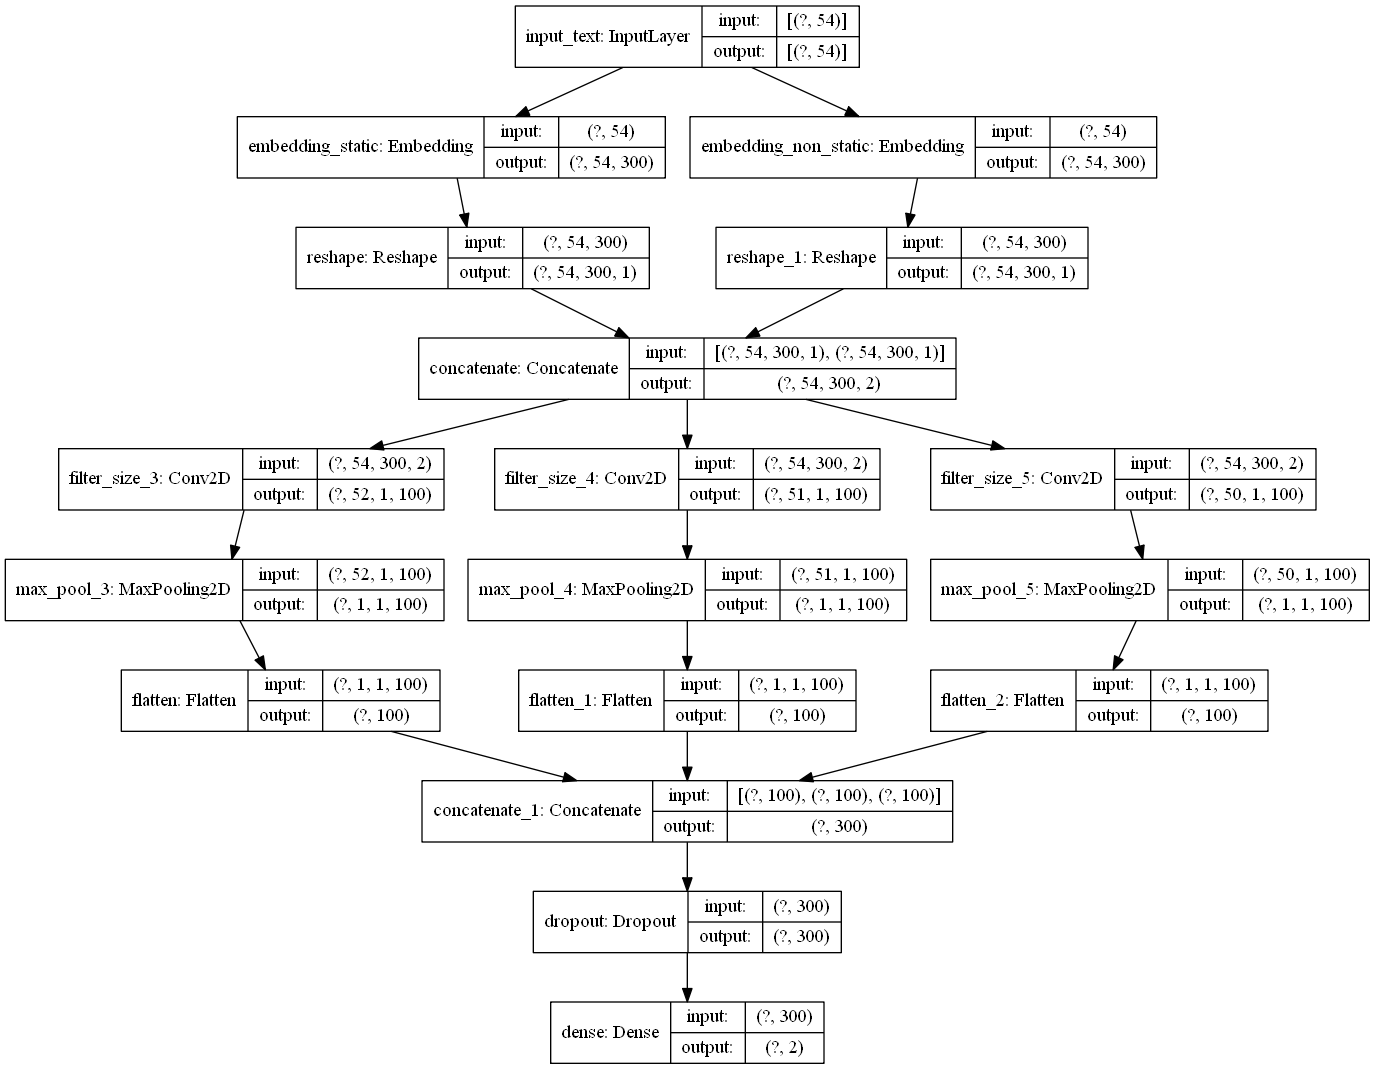
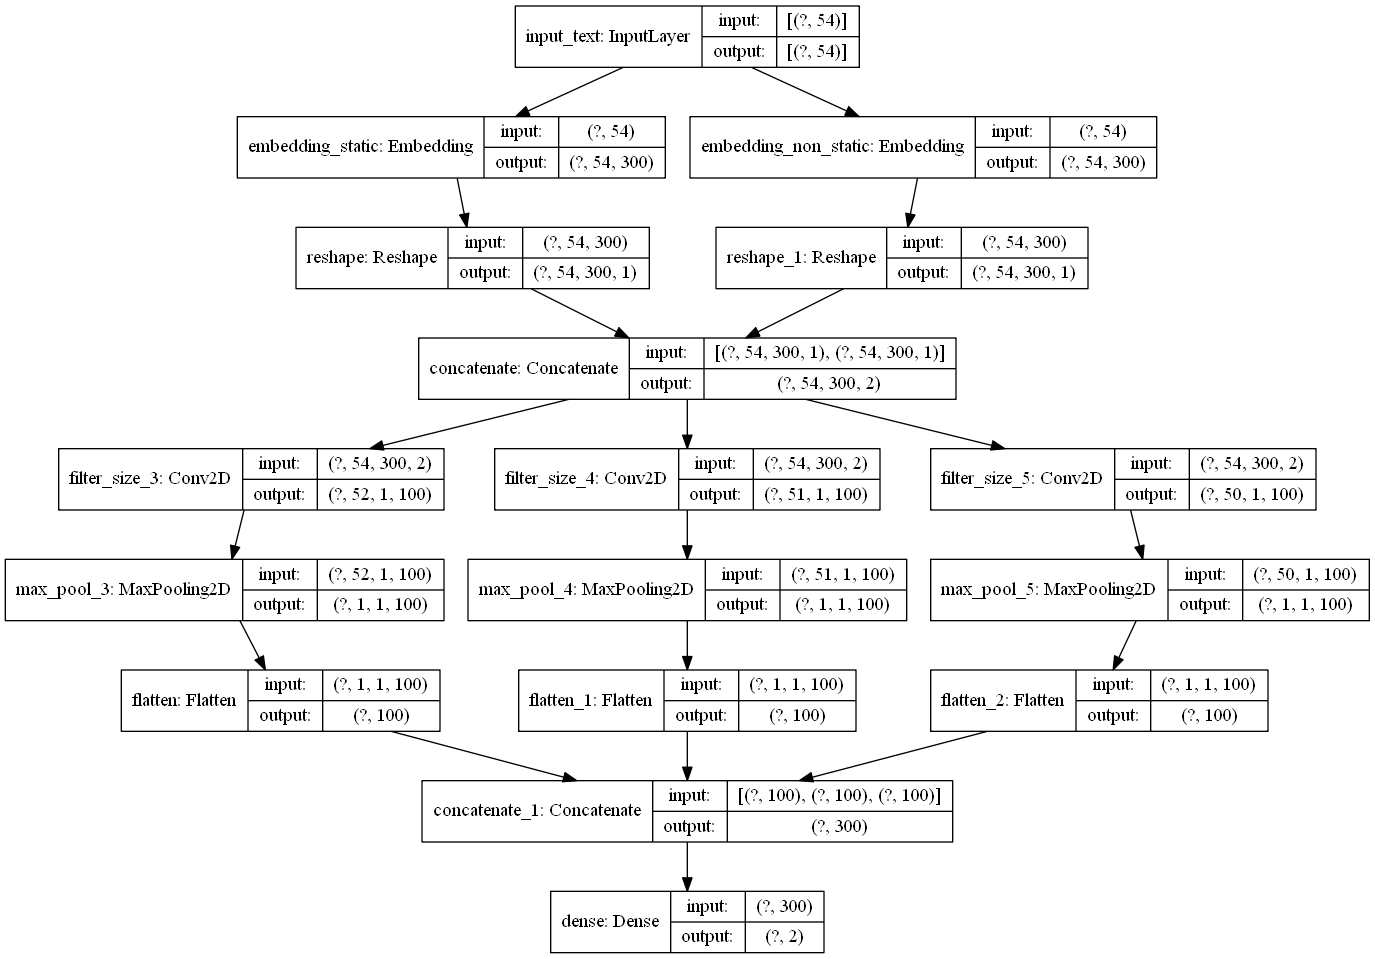
Final

Changed region(s): [[0.0, 0.0, 1.0, 0.9979]]

diff --git a/load_text.py b/load_text.py
@@ -1,4 +1,5 @@
 import os
+
 os.environ['TF_CPP_MIN_LOG_LEVEL'] = '3'
 import tensorflow as tf
 import tensorflow_datasets as tfds
@@ -8,12 +9,16 @@ import numpy as np
 
 # Load and preprecess data
 
-negative_data_file = 'C:/Users/AnhDuc/Desktop/Study/LabAIDANTE/TensorFlow/data/rt-polaritydata/rt-polarity.neg'
-positive_data_file = 'C:/Users/AnhDuc/Desktop/Study/LabAIDANTE/TensorFlow/data/rt-polaritydata/rt-polarity.pos'
+negative_data_file = '//data/rt-polaritydata/rt' \
+                     '-polarity.neg '
+positive_data_file = '//data/rt-polaritydata/rt' \
+                     '-polarity.pos '
+predict_data_file = '//data/rt-polaritydata/predict.txt'
 
 x_text, y = data_helpers.load_data_and_labels(positive_data_file, negative_data_file)
-
 all_labeled_data = tf.data.Dataset.from_tensor_slices((x_text, y))
+
+predict_data = data_helpers.load_predict_data(predict_data_file)
 
 # Build vocabulary
 
@@ -39,9 +44,11 @@ vocab_size = len(vocabulary_set)
 
 encoder = tfds.features.text.TokenTextEncoder(vocabulary_set)
 
+
 def do_encode(text, label):
     encoded_text = encoder.encode(str(text))
     return encoded_text[3:-3], label
+
 
 def encode_map_fn(text, label):
     # py_func doesn't set the shape of the returned tensors.
@@ -51,12 +58,19 @@ def encode_map_fn(text, label):
 
     return encoded_text, label
 
+
 all_encoded_data = all_labeled_data.map(encode_map_fn)
+predict_data = [encoder.encode(s) for s in predict_data]
 
 sentences_max_len = 0
-
 for text, label in all_encoded_data.as_numpy_iterator():
     sentences_max_len = max(sentences_max_len, len(text))
+
+for idx in range(len(predict_data)):
+    while len(predict_data[idx]) < sentences_max_len:
+        predict_data[idx].append(0)
+
+predict_data = tf.data.Dataset.from_tensor_slices(predict_data)
 
 # Split to train data and test data
 

diff --git a/build_model.py b/build_model.py
@@ -1,9 +1,11 @@
 import os
+
 os.environ['TF_CPP_MIN_LOG_LEVEL'] = '3'
 import load_text
 import tensorflow as tf
 from tensorflow import keras
 from tensorflow.keras import layers
+import numpy as np
 
 train_data = load_text.train_data
 test_data = load_text.test_data
@@ -34,8 +36,8 @@ flatten_3_layer = layers.Flatten()(max_pool_3_layer)
 flatten_4_layer = layers.Flatten()(max_pool_4_layer)
 flatten_5_layer = layers.Flatten()(max_pool_5_layer)
 concatenate_layer = layers.concatenate([flatten_3_layer, flatten_4_layer, flatten_5_layer])
-dropout_layer = layers.Dropout(rate=0.5)(concatenate_layer)
-outputs = layers.Dense(2, activation="softmax")(dropout_layer)
+# dropout_layer = layers.Dropout(rate=0.6)(concatenate_layer)
+outputs = layers.Dense(2, activation="softmax")(concatenate_layer)
 
 model = keras.Model(inputs=inputs, outputs=outputs, name="test_model")
 keras.utils.plot_model(model, "my_first_model.png", show_shapes=True)
@@ -44,9 +46,19 @@ model.compile(optimizer='adam',
               loss=tf.keras.losses.BinaryCrossentropy(from_logits=True),
               metrics=['accuracy'])
 
+# model.load_weights('C:/Users/AnhDuc/Desktop/Study/LabAIDANTE/TensorFlow/data')
+
 model.fit(train_data,
           epochs=200,
           validation_data=val_data,
           callbacks=keras.callbacks.EarlyStopping(monitor='val_loss', min_delta=0, patience=5, verbose=0, mode='min'),
           verbose=1, shuffle=True)
-test_loss, test_acc = model.evaluate(test_data, verbose=2)
+
+# model.save_weights('C:/Users/AnhDuc/Desktop/Study/LabAIDANTE/TensorFlow/data')
+# test_loss, test_acc = model.evaluate(test_data, verbose=2)
+
+predict_data = load_text.predict_data
+predict_data = predict_data.batch(batch_size=54)
+
+predictions = model.predict(predict_data)
+print(np.argmax(predictions, axis=1))

diff --git a/data_helpers.py b/data_helpers.py
@@ -2,7 +2,6 @@ import re
 
 import numpy as np
 
-
 def clean_str(string):
     """
     Tokenization/string cleaning for all datasets except for SST.
@@ -43,22 +42,8 @@ def load_data_and_labels(positive_data_file, negative_data_file):
     y = np.concatenate([positive_labels, negative_labels], 0)
     return [x_text, y]
 
-
-def batch_iter(data, batch_size, num_epochs, shuffle=True):
-    """
-    Generates a batch iterator for a dataset.
-    """
-    data = np.array(data)
-    data_size = len(data)
-    num_batches_per_epoch = int((len(data) - 1) / batch_size) + 1
-    for epoch in range(num_epochs):
-        # Shuffle the data at each epoch
-        if shuffle:
-            shuffle_indices = np.random.permutation(np.arange(data_size))
-            shuffled_data = data[shuffle_indices]
-        else:
-            shuffled_data = data
-        for batch_num in range(num_batches_per_epoch):
-            start_index = batch_num * batch_size
-            end_index = min((batch_num + 1) * batch_size, data_size)
-            yield shuffled_data[start_index:end_index]
+def load_predict_data(predict_data_file):
+    predict_data = list(open(predict_data_file, "r", encoding='utf-8').readlines())
+    predict_data = [s.strip() for s in predict_data]
+    predict_data = [clean_str(sent) for sent in predict_data]
+    return predict_data
